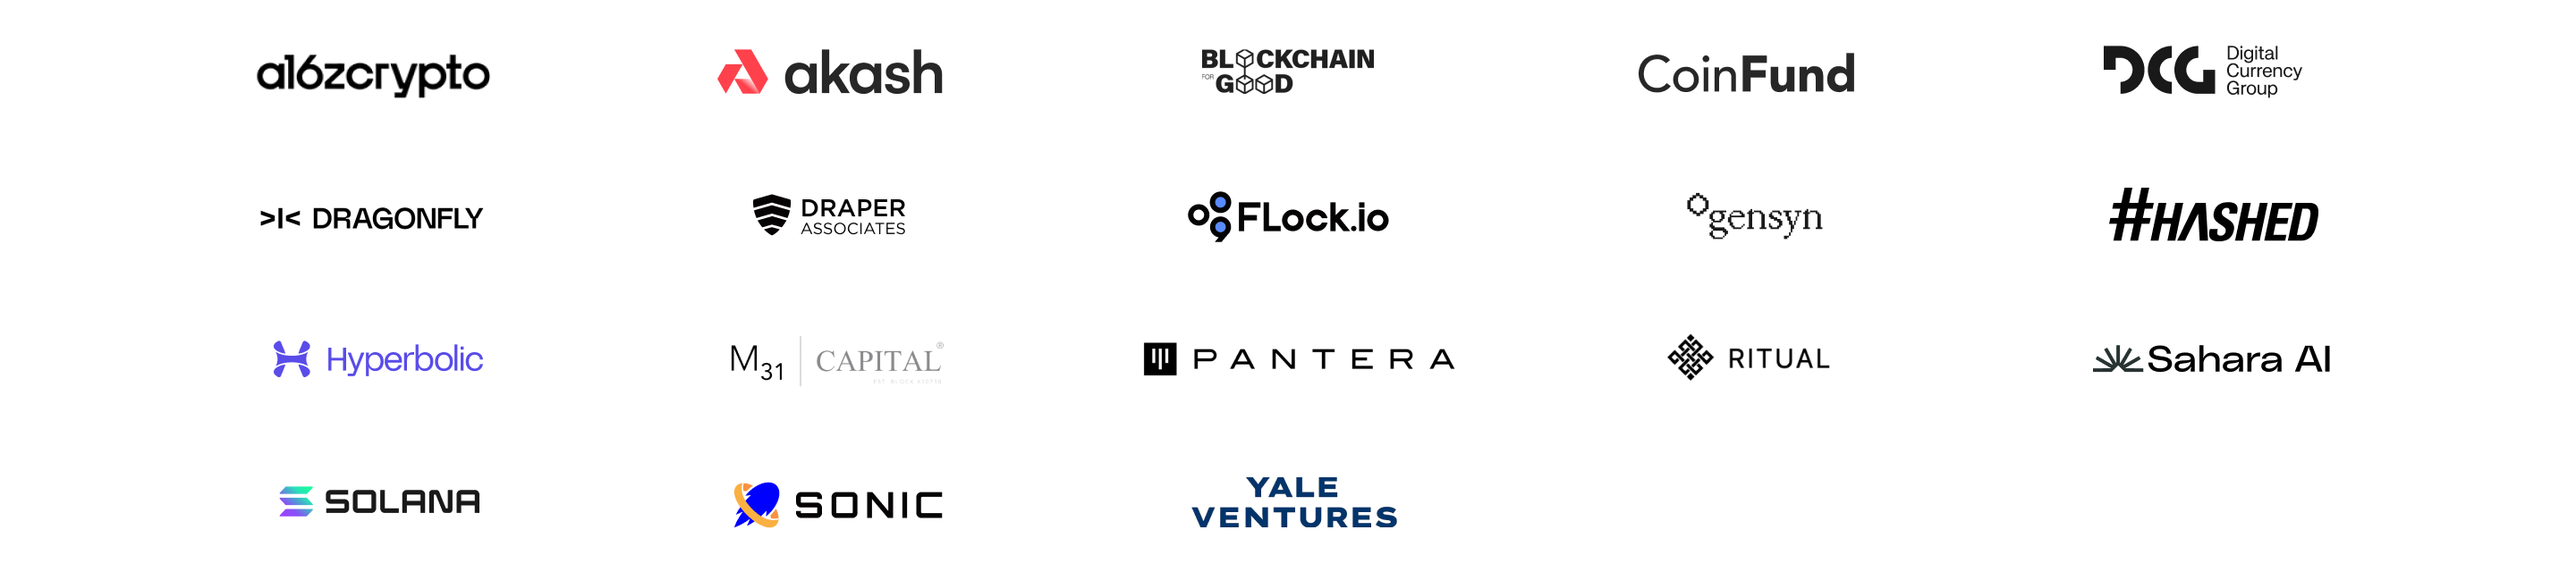
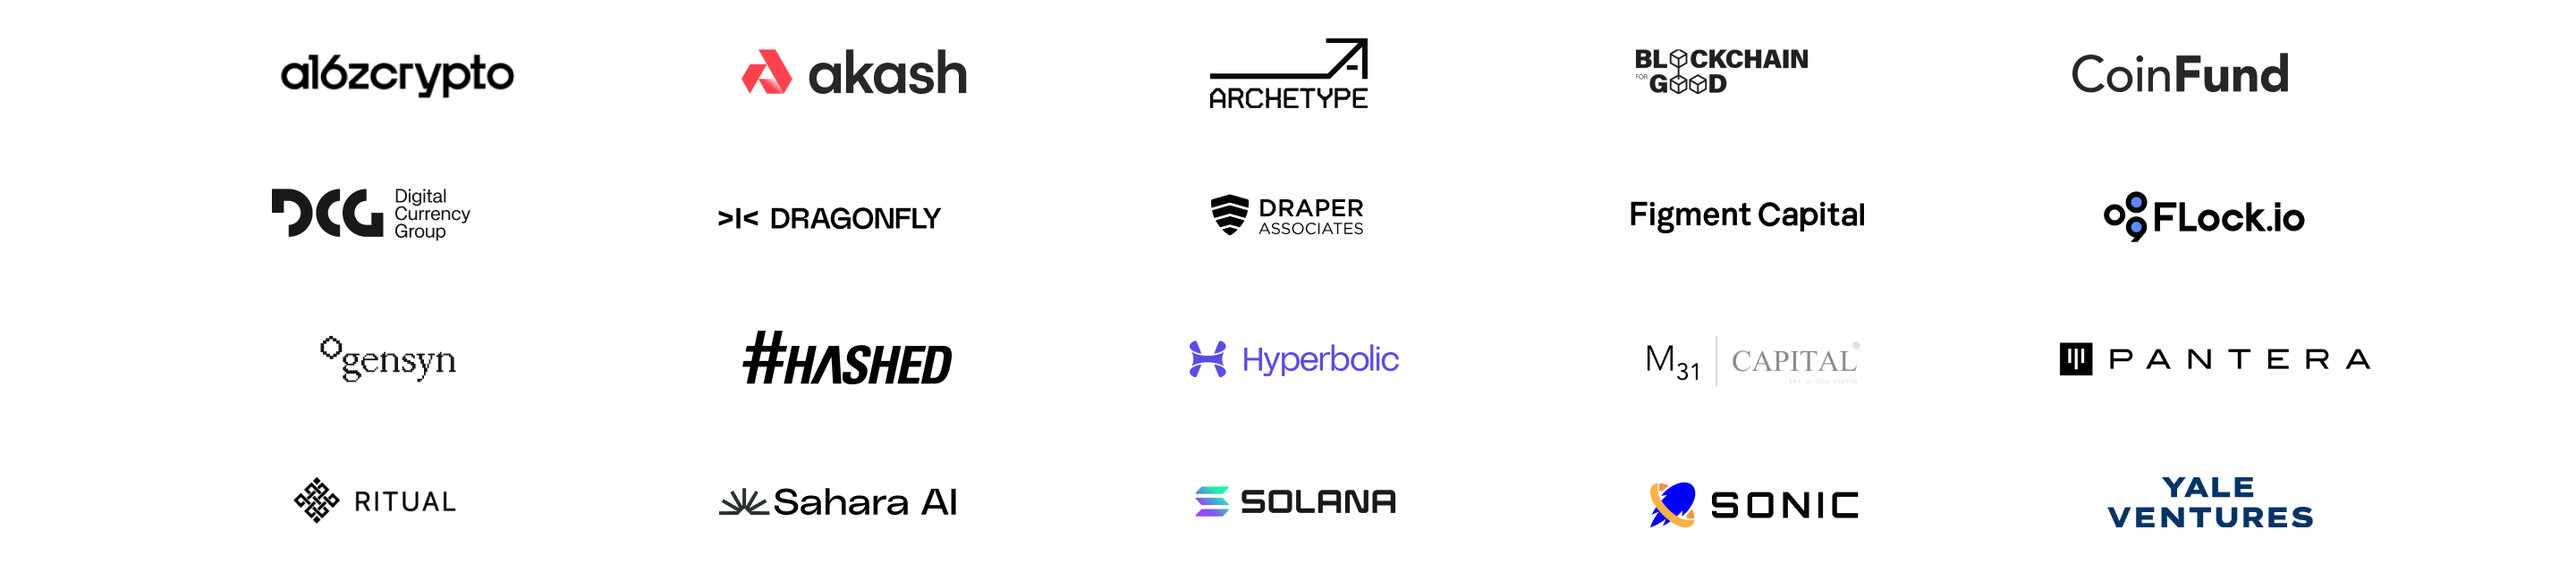
fix

diff --git a/src/app/page.tsx b/src/app/page.tsx
@@ -11,7 +11,7 @@ import MobileMenu from "@/component/MobileMenu";
 import { useRouter } from "next/navigation";
 
 export default function Home() {
-  const [visibleCount, setVisibleCount] = useState(15);
+  const [visibleCount, setVisibleCount] = useState(20);
   const router = useRouter();
 
   const [openIndex, setOpenIndex] = useState<number | null>(null);
@@ -63,9 +63,10 @@ export default function Home() {
 
   // 数据数组
   const speakers = [
-    { id: 9, name: "Guy Wuollet", company: "Investment Partner at a16z crypto", img: "/speakers/6.png", icon: "6" },
+    { id: 0, name: "Allan", company: "Partner of Blockchain For Good Alliance", img: "/speakers/17.png", icon: "17" },
+    { id: 10, name: "Guy Wuollet", company: "Investment Partner at a16z crypto", img: "/speakers/6.png", icon: "6" },
     { id: 1, name: "Anna Bertha", company: "Investor at DCG", img: "/speakers/3.png", icon: "1" },
-    { id: 10, name: "Jiahao Sun", company: "Founder and CEO of FLock.io", img: "/speakers/8.png", icon: "8" },
+    { id: 11, name: "Jiahao Sun", company: "Founder and CEO of FLock.io", img: "/speakers/8.png", icon: "8" },
     {
       id: 6,
       name: "David Attermann",
@@ -81,14 +82,16 @@ export default function Home() {
       img: "/speakers/5.png",
       icon: "4",
     },
-    { id: 8, name: "Greg Osuri", company: "Founder of Akash", img: "/speakers/1.png", icon: "7" },
-    { id: 11, name: "Naveen Durvasula", company: "Core Member of Ritual", img: "/speakers/2.png", icon: "9" },
+    { id: 9, name: "Greg Osuri", company: "Founder of Akash", img: "/speakers/1.png", icon: "7" },
+    { id: 12, name: "Mads Pedersen", company: "Partner at Figment Capital", img: "/speakers/19.png", icon: "19" },
+    { id: 13, name: "Naveen Durvasula", company: "Core Member of Ritual", img: "/speakers/2.png", icon: "9" },
     { id: 3, name: "Ben Fielding", company: "Co-founder of Gensyn", img: "/speakers/4.png", icon: "2" },
     { id: 2, name: "Baek Kim", company: "Partner at Hashed", img: "/speakers/16.png", icon: "16" },
-    { id: 7, name: "Evan Feng", company: "Partner at CoinFund", img: "/speakers/12.png", icon: "5" },
-    { id: 12, name: "Nihal Maunder", company: "Junior Partner at Pantera", img: "/speakers/14.png", icon: "14" },
-    { id: 14, name: "Tom Schmidt", company: "Partner at Dragonfly", img: "/speakers/7.png", icon: "13" },
-    { id: 13, name: "Sean Ren", company: "Cofounder of Sahara AI", img: "/speakers/15.png", icon: "15" },
+    { id: 7, name: "Dmitriy Berenzon", company: "Partner at Archetype", img: "/speakers/18.png", icon: "18" },
+    { id: 8, name: "Evan Feng", company: "Partner at CoinFund", img: "/speakers/12.png", icon: "5" },
+    { id: 14, name: "Nihal Maunder", company: "Junior Partner at Pantera", img: "/speakers/14.png", icon: "14" },
+    { id: 16, name: "Tom Schmidt", company: "Partner at Dragonfly", img: "/speakers/7.png", icon: "13" },
+    { id: 15, name: "Sean Ren", company: "Cofounder of Sahara AI", img: "/speakers/15.png", icon: "15" },
   ];
 
   // 点击按钮后展示更多数据
